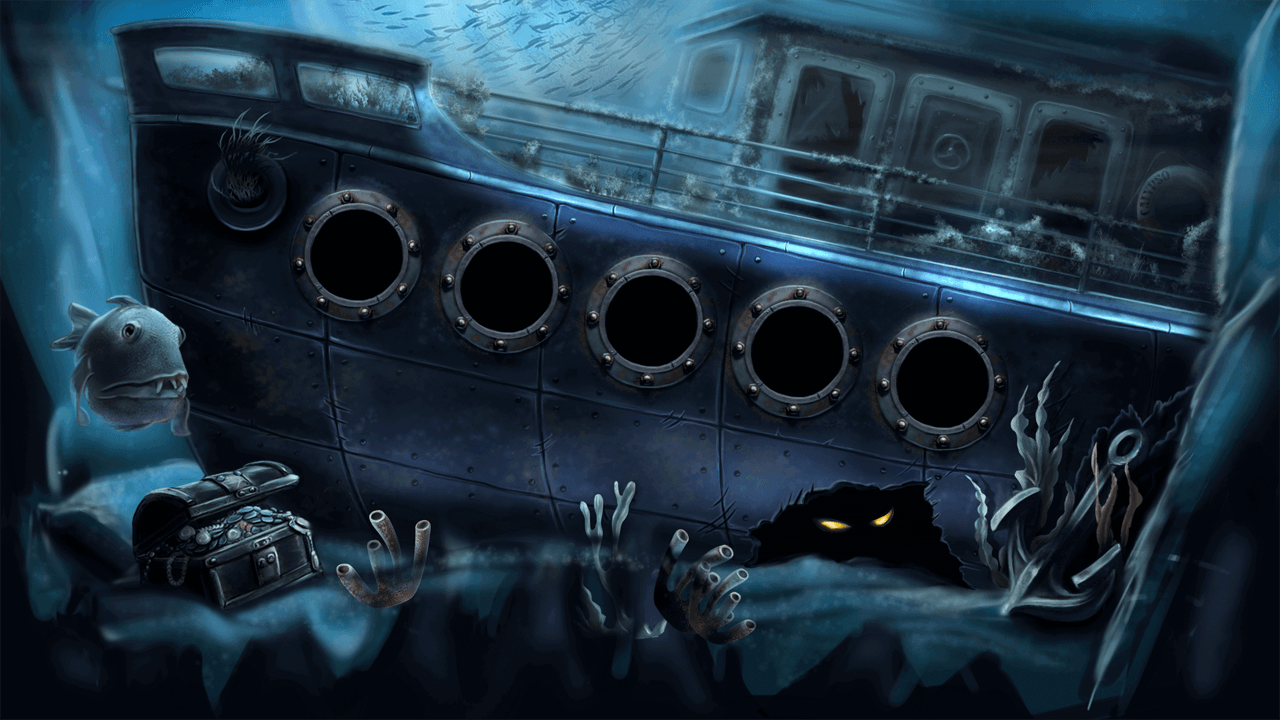
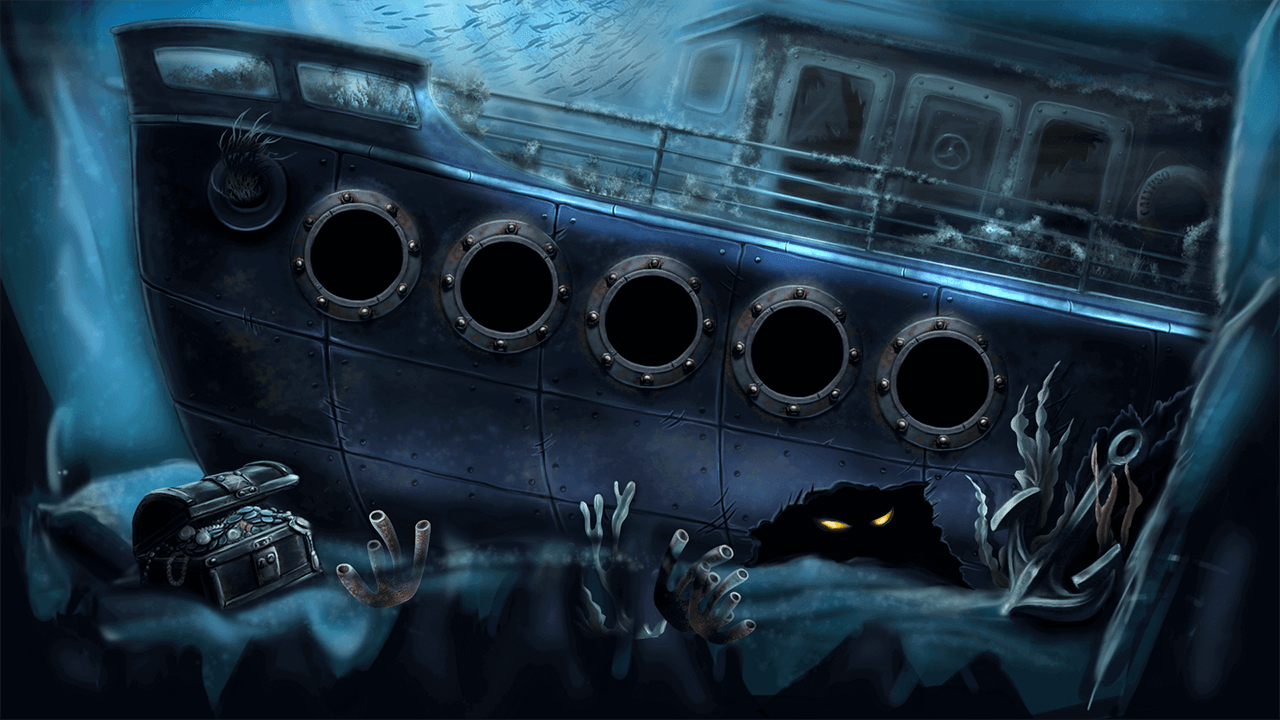
bonus animation add

Changed region(s): [[0.0312, 0.3972, 0.1562, 0.6111]]

diff --git a/markup/components/bonuses/bonuses.js b/markup/components/bonuses/bonuses.js
@@ -74,6 +74,28 @@ let bonuses = (function () {
             name: 'illuminatorContainer'
         });
 
+        let bigFish = new createjs.Sprite(loader.getResult('bigFish'), 'move').set({
+            name: 'bigFish',
+            x: 50,
+            y: 350
+        });
+
+        let upperLight = new createjs.Bitmap(loader.getResult('upperLight'));
+        upperLight.alpha = 0.5;
+        let upperLight2 = upperLight.clone();
+        let upperLight3 = upperLight.clone();
+        upperLight2.x = -50; upperLight2.y = -60;
+        upperLight3.x = -20; upperLight3.y = -30;
+        createjs.Tween.get(upperLight, {loop: true})
+          .to({alpha: 0.2}, 1900)
+          .to({alpha: 0.5}, 1200);
+        createjs.Tween.get(upperLight2, {loop: true})
+          .to({alpha: 0.2}, 2900)
+          .to({alpha: 0.5}, 1700);
+        createjs.Tween.get(upperLight3, {loop: true})
+          .to({alpha: 0.2}, 1100)
+          .to({alpha: 0.5}, 1400);
+
         let ss = loader.getResult('illuminators');
         let illuminator_1 = new createjs.Sprite(ss, 0).set({
             x: 358,
@@ -107,8 +129,12 @@ let bonuses = (function () {
         });
 
         doors.push(illuminator_1, illuminator_2, illuminator_3, illuminator_4, illuminator_5);
-        bonusContainer.addChild(bonusBG, illuminatorContainer, bonusFG);
+        bonusContainer.addChild(bonusBG, illuminatorContainer, bigFish, upperLight, upperLight2, upperLight3, bonusFG);
         stage.addChildAt(bonusContainer, 0);
+
+        let fishMove = new TimelineMax({repeat: -1, yoyo: true});
+        fishMove.to(bigFish, 5, {y: 250})
+            .to(bigFish, 5, {y: 350});
 
         doors.forEach((door, index) => {
             door.stop();
@@ -128,7 +154,7 @@ let bonuses = (function () {
 
         setTimeout(function () {
            DoorLight(blicks);
-        }, 500);
+       }, 300);
 
         addClickHandlers(doors, bonusContainer, bonusFG);
         console.warn("we are entering addClickHandlers");
@@ -143,6 +169,7 @@ let bonuses = (function () {
            DoorLight(blicks);
         }, Math.random()*3000+500);
     }
+
 
     function addClickHandlers(arr, container, el) {
         let loader = preloader.getLoadResult();

diff --git a/markup/components/preloader/preloader.js b/markup/components/preloader/preloader.js
@@ -23,7 +23,7 @@ const mainManifest = [
     {id: 'bubbleBG', src: 'static/img/content/bg/bubbleBG.png'},
     {id: 'fishBG', src: 'static/img/content/bg/fishBG.json', type: 'spritesheet'},
     {id: 'sharkBG', src: 'static/img/content/bg/sharkBG.json', type: 'spritesheet'},
-    {id: 'labelLight', src: 'static/img/content/bg/labelLight.json', type: 'spritesheet'},
+    {id: 'logoLight', src: 'static/img/content/bg/logoLight.json', type: 'spritesheet'},
     {id: 'eyeLight', src: 'static/img/content/bg/eyeLight.png'},
     // freespin
     {id: 'vodolaz', src: 'static/img/content/freespin/vodolaz.png'},
@@ -44,6 +44,8 @@ const mainManifest = [
     {id: 'illuminators', src: 'static/img/content/bonuses/illuminators.json', type: 'spritesheet'},
     {id: 'octopus', src: 'static/img/content/bonuses/octopus.png'},
     {id: 'light', src: 'static/img/content/bonuses/light.png'},
+    {id: 'upperLight', src: 'static/img/content/bonuses/upperLight.png'},
+    {id: 'bigFish', src: 'static/img/content/bonuses/bigFish.json', type: 'spritesheet'},
     // buttons
     {id: 'spinButton', src: 'static/img/content/buttons/spin.json', type: 'spritesheet'},
     {id: 'autoButton', src: 'static/img/content/buttons/auto.json', type: 'spritesheet'},

diff --git a/markup/components/bg/bg.js b/markup/components/bg/bg.js
@@ -150,16 +150,17 @@ let bg = (function () {
 
         function showLabelLight(){
 
-          let labelLight = new createjs.Sprite(loader.getResult('labelLight'), "go");
-          labelLight.x = 460;
-          labelLight.y = 30;
+          let labelLight = new createjs.Sprite(loader.getResult('logoLight'), "go");
+          labelLight.x = 447;
+          labelLight.y = 10;
+          labelLight.scaleX = labelLight.scaleX = 0.8;
           gameStaticStage.addChild(labelLight);
           labelLight.on("animationend", function(){
             gameStaticStage.removeChild(labelLight);
           });
           setTimeout(showLabelLight.bind(null), 10000*Math.random()+10000);
         }
-        setTimeout(showLabelLight.bind(null), 20000);
+        setTimeout(showLabelLight.bind(null), 7000);
 
         function showEyeLight(){
             let eyeLight = new createjs.Bitmap(loader.getResult('eyeLight'));
